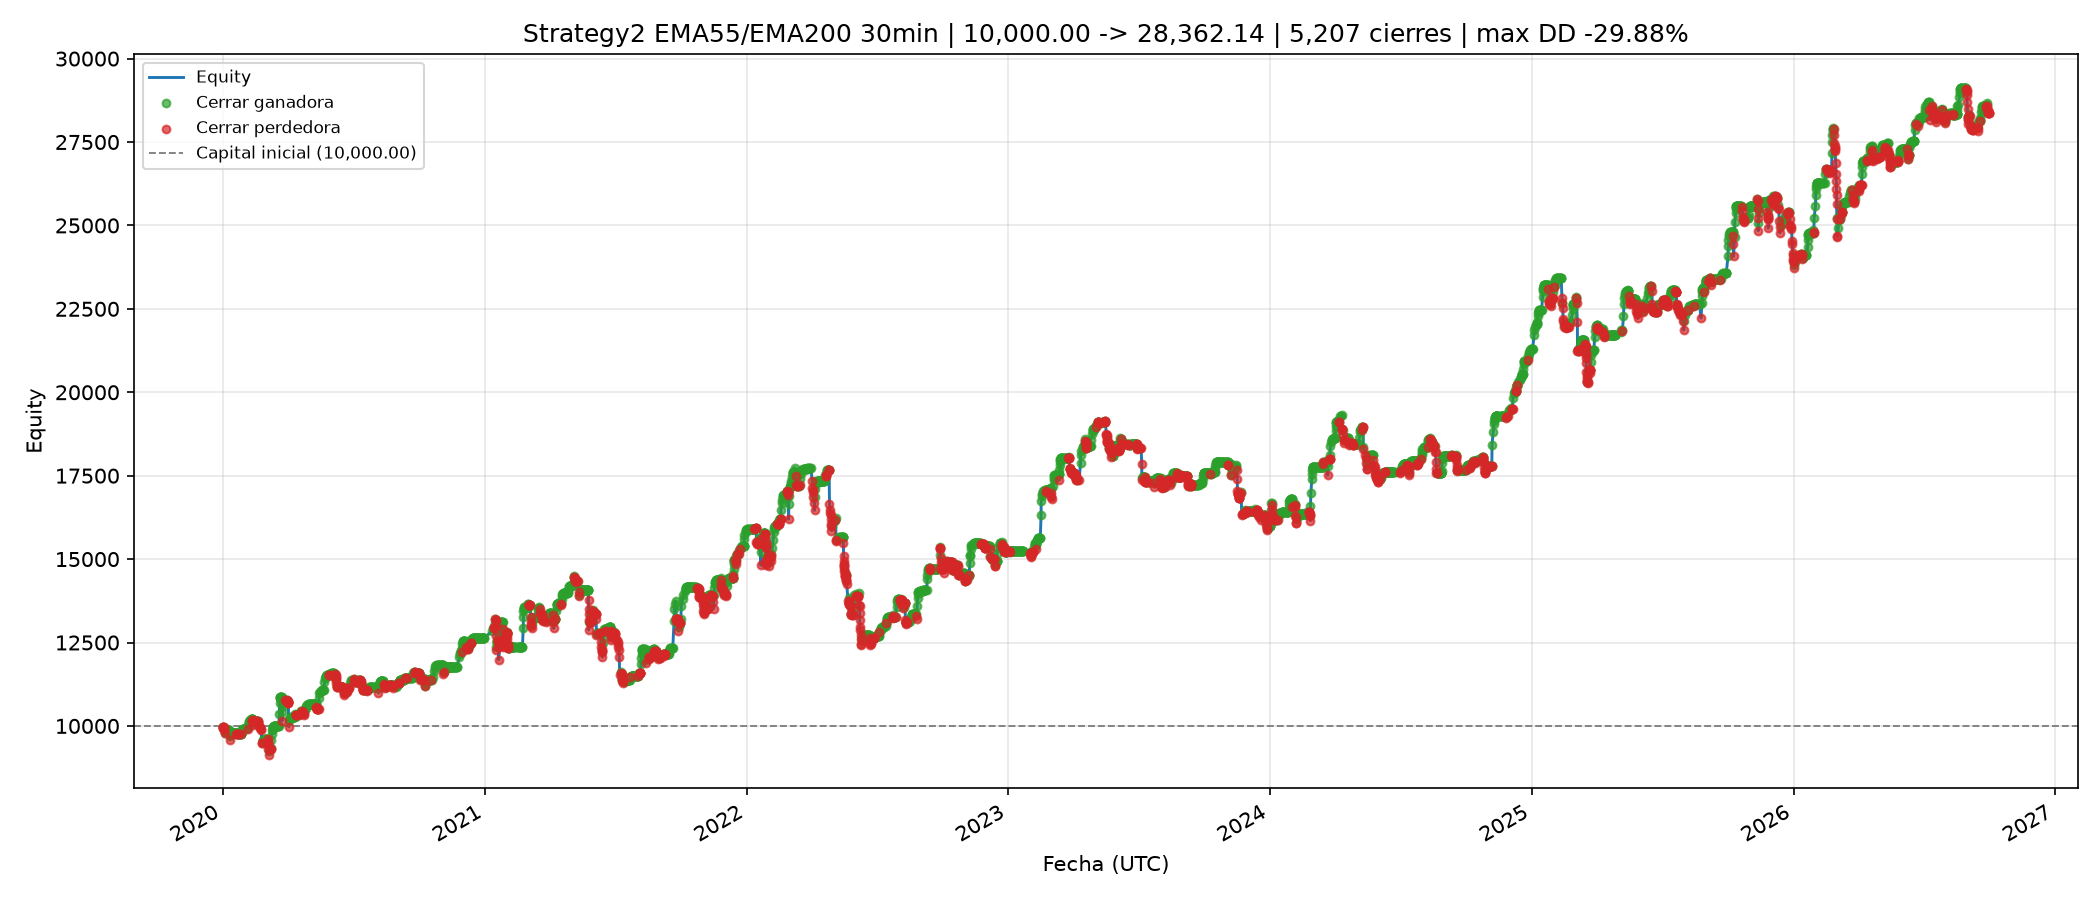
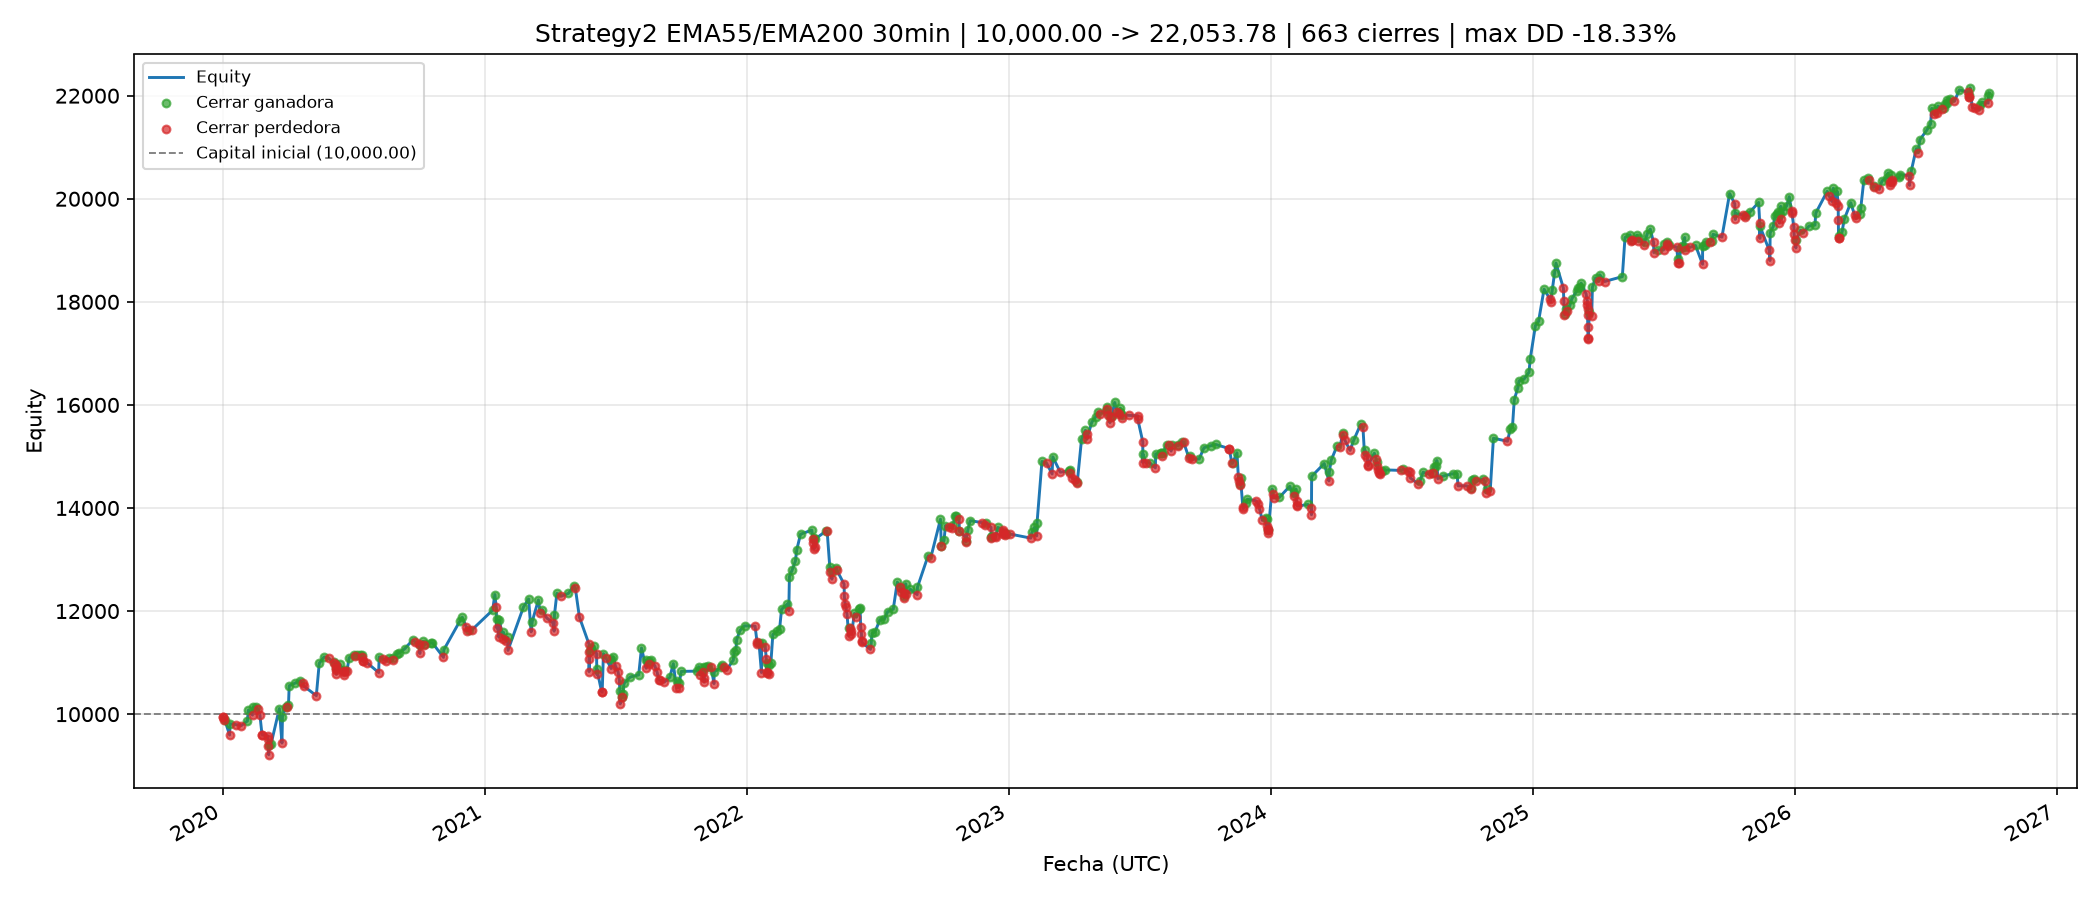
update

diff --git a/backend/services/backtest/bin/legacy/strategy/strategy2.py b/backend/services/backtest/bin/legacy/strategy/strategy2.py
@@ -15,8 +15,12 @@ Reglas:
         ADX deja de subir tras un pico por encima de `key_level`, se
         cierra la posición (total o parcial según `adx_exit_pct`).
         Funciona igual para LONG y SHORT.
+    SALIDA PARCIAL RSI (solo SHORT) -> en el timeframe de la
+        estrategia (30m), cuando el RSI cruza A LA BAJA el nivel
+        `rsi_exit_level` (32) se cierra el % `rsi_exit_pct` del
+        SHORT abierto. No aplica a LONG.
 
-La entrada sigue siendo SOLO el cruce de EMAs. No hay RSI ni ATR.
+La entrada sigue siendo SOLO el cruce de EMAs. No hay ATR.
 
 Convención anti-lookahead:
 
@@ -94,6 +98,13 @@ class Config:
     adx_key_level: float = 23.0
     adx_exit_pct: float = 50.0
 
+    # Salida parcial por RSI en el timeframe de la estrategia (30m).
+    # Solo SHORT: cruce a la baja de `rsi_exit_level`.
+    rsi_exit_enabled: bool = True
+    rsi_len: int = 14
+    rsi_exit_level: float = 32.0
+    rsi_exit_pct: float = 50.0
+
     force_close_at_end: bool = True
 
     timestamp_is_close: bool = False
@@ -144,6 +155,21 @@ class Config:
             if not (0.0 < self.adx_exit_pct <= 100.0):
                 raise ValueError(
                     "adx_exit_pct debe estar entre 0 (excl.) y 100."
+                )
+
+        if self.rsi_exit_enabled:
+
+            if self.rsi_len <= 0:
+                raise ValueError("rsi_len debe ser > 0.")
+
+            if not (0.0 < self.rsi_exit_level < 100.0):
+                raise ValueError(
+                    "rsi_exit_level debe estar entre 0 y 100."
+                )
+
+            if not (0.0 < self.rsi_exit_pct <= 100.0):
+                raise ValueError(
+                    "rsi_exit_pct debe estar entre 0 (excl.) y 100."
                 )
 
         if not self.allow_long and not self.allow_short:
@@ -473,6 +499,51 @@ def ema_closed(
     ).mean()
 
 
+def rsi_vec(
+    close: pd.Series,
+    length: int = 14,
+) -> pd.Series:
+
+    """RSI de Wilder (smoothing alpha = 1/length)."""
+
+    if length <= 0:
+        raise ValueError("RSI length must be > 0")
+
+    delta = close.diff()
+
+    gain = delta.clip(lower=0.0)
+    loss = (-delta).clip(lower=0.0)
+
+    avg_gain = gain.ewm(
+        alpha=1.0 / length,
+        adjust=False,
+    ).mean()
+
+    avg_loss = loss.ewm(
+        alpha=1.0 / length,
+        adjust=False,
+    ).mean()
+
+    zero_loss = avg_loss.to_numpy() == 0.0
+    zero_gain = avg_gain.to_numpy() == 0.0
+
+    safe_loss = np.where(zero_loss, 1.0, avg_loss.to_numpy())
+
+    with np.errstate(invalid="ignore"):
+        rs = avg_gain.to_numpy() / safe_loss
+        rsi = 100.0 - 100.0 / (1.0 + rs)
+
+    rsi = np.where(zero_loss & ~zero_gain, 100.0, rsi)
+    rsi = np.where(zero_loss & zero_gain, 50.0, rsi)
+
+    out = pd.Series(rsi, index=close.index, dtype=float)
+
+    out.iloc[:length] = np.nan
+
+    return out
+
+
+
 def build_features(
     bars: pd.DataFrame,
     cfg: Config,
@@ -675,6 +746,36 @@ def adx_reversal_flags(
     return flags
 
 
+def rsi_exit_flags(
+    rsi: np.ndarray,
+    level: float,
+) -> np.ndarray:
+
+    """
+    Marca la vela donde el RSI cruza A LA BAJA `level`.
+
+    Se usa como take-profit parcial de SHORT: el RSI entra en la
+    zona de sobreventa y se reduce la posición.
+    """
+
+    rsi = np.asarray(rsi, dtype=float)
+
+    flags = np.zeros(len(rsi), dtype=bool)
+
+    if len(rsi) < 2:
+        return flags
+
+    prev = rsi[:-1]
+    cur = rsi[1:]
+
+    with np.errstate(invalid="ignore"):
+
+        flags[1:] = (prev > level) & (cur <= level)
+
+    return flags
+
+
+
 def _source_minutes(data: pd.DataFrame) -> float:
 
     minutes = float(
@@ -747,6 +848,28 @@ def build_5m_adx_exit(
     out[ok] = flags[pos[ok]]
 
     return out
+
+
+def build_rsi_exit(
+    bars: pd.DataFrame,
+    cfg: Config,
+) -> Optional[np.ndarray]:
+
+    """
+    Cruces a la baja del RSI en el timeframe de la estrategia (30m),
+    alineados 1:1 con las velas. Devuelve `None` si está deshabilitado.
+    """
+
+    if not cfg.rsi_exit_enabled or len(bars) == 0:
+        return None
+
+    rsi = rsi_vec(
+        bars["close"],
+        cfg.rsi_len,
+    ).to_numpy(float)
+
+    return rsi_exit_flags(rsi, cfg.rsi_exit_level)
+
 
 
 # ---------------------------------------------------------------------------
@@ -1265,6 +1388,15 @@ def print_report(
         f"{'SHORT' if cfg.allow_short else ''}"
     )
 
+    if cfg.rsi_exit_enabled:
+
+        print(
+            f"RSI exit        : "
+            f"RSI({cfg.rsi_len}) cruza <= {cfg.rsi_exit_level:g} "
+            f"en {cfg.timeframe} -> "
+            f"cierra {cfg.rsi_exit_pct:g}% (solo SHORT)"
+        )
+
     print("=" * 72)
 
 
@@ -1529,6 +1661,7 @@ class Strategy2Backtester:
         config: Config,
         verbose: bool = False,
         adx_exit: Optional[np.ndarray] = None,
+        rsi_exit: Optional[np.ndarray] = None,
     ):
 
         self.data = data
@@ -1539,6 +1672,11 @@ class Strategy2Backtester:
             adx_exit = np.zeros(len(data), dtype=bool)
 
         self.adx_exit = np.asarray(adx_exit, dtype=bool)
+
+        if rsi_exit is None or len(rsi_exit) != len(data):
+            rsi_exit = np.zeros(len(data), dtype=bool)
+
+        self.rsi_exit = np.asarray(rsi_exit, dtype=bool)
 
         self.sig = build_features(data, config)
 
@@ -1556,7 +1694,7 @@ class Strategy2Backtester:
         # Objetivo pendiente de ejecutar: +1 LONG, -1 SHORT.
         self.pending_target: Optional[int] = None
 
-        # Salida pendiente de ejecutar por reversión del ADX: (motivo, %).
+        # Salida pendiente de ejecutar (ADX o RSI): (motivo, %).
         self.pending_exit: Optional[tuple[str, float]] = None
 
         self.trades: list[Trade] = []
@@ -1972,6 +2110,18 @@ class Strategy2Backtester:
             else f"{adx_reason}_{adx_exit_pct:g}%"
         )
 
+        rsi_reason = (
+            f"RSI{cfg.rsi_len}_{cfg.rsi_exit_level:g}_EXIT"
+        )
+
+        rsi_exit_pct = float(cfg.rsi_exit_pct)
+
+        rsi_exit_reason = (
+            rsi_reason
+            if rsi_exit_pct >= 100.0
+            else f"{rsi_reason}_{rsi_exit_pct:g}%"
+        )
+
         started = time.perf_counter()
 
         last_log = -10
@@ -1995,7 +2145,7 @@ class Strategy2Backtester:
 
                 if self.verbose and self.position is not None:
                     print(
-                        f"[ADX] {self.times[i]} | EXIT "
+                        f"[EXIT] {self.times[i]} | EXIT "
                         f"{exit_pct:g}% | {exit_reason}",
                         flush=True,
                     )
@@ -2046,8 +2196,8 @@ class Strategy2Backtester:
                     if current != target:
                         new_target = target
 
-                # Salida por reversión del ADX del timeframe menor:
-                # solo si no hay un cruce contrario que ya revertiría.
+                # Salidas parciales (ADX 5m / RSI 30m): solo si no
+                # hay un cruce contrario que ya revertiría.
                 if (
                     new_target is None
                     and self.position is not None
@@ -2055,6 +2205,19 @@ class Strategy2Backtester:
                 ):
 
                     new_exit = (adx_exit_reason, adx_exit_pct)
+
+                # Salida parcial por RSI en el timeframe de la
+                # estrategia (30m): SOLO cuando la posición es SHORT
+                # y el RSI cruza a la baja el nivel (sobreventa).
+                if (
+                    new_exit is None
+                    and new_target is None
+                    and self.position is not None
+                    and self.position.side == -1
+                    and self.rsi_exit[i]
+                ):
+
+                    new_exit = (rsi_exit_reason, rsi_exit_pct)
 
             if new_target is not None:
                 self.pending_target = new_target
@@ -2226,6 +2389,43 @@ def parse_args():
     )
 
     p.add_argument(
+        "--no-rsi-exit",
+        action="store_true",
+        help=(
+            "Deshabilita la salida parcial por RSI "
+            "(solo SHORT)."
+        ),
+    )
+
+    p.add_argument(
+        "--rsi-len",
+        type=int,
+        default=d.rsi_len,
+        help="Periodo del RSI de salida (default: 14).",
+    )
+
+    p.add_argument(
+        "--rsi-exit-level",
+        type=float,
+        default=d.rsi_exit_level,
+        help=(
+            "Nivel del RSI que dispara la salida parcial del "
+            "SHORT (default: 32)."
+        ),
+    )
+
+    p.add_argument(
+        "--rsi-exit-pct",
+        type=float,
+        default=d.rsi_exit_pct,
+        help=(
+            "Porcentaje del SHORT a cerrar en cada cruce del RSI "
+            "por debajo del nivel (100 = cierre total; "
+            "<100 = salida parcial; default: 50)."
+        ),
+    )
+
+    p.add_argument(
         "--adx-timeframe",
         default=d.adx_timeframe,
         help="Timeframe del ADX de salida (default: 5min).",
@@ -2351,6 +2551,10 @@ def make_config(args) -> Config:
         adx_adxlen=args.adx_adxlen,
         adx_key_level=args.adx_key_level,
         adx_exit_pct=args.adx_exit_pct,
+        rsi_exit_enabled=not args.no_rsi_exit,
+        rsi_len=args.rsi_len,
+        rsi_exit_level=args.rsi_exit_level,
+        rsi_exit_pct=args.rsi_exit_pct,
         force_close_at_end=not args.no_force_close,
         timestamp_is_close=(
             Config().timestamp_is_close
@@ -2442,11 +2646,33 @@ def main():
                 flush=True,
             )
 
+    rsi_exit = build_rsi_exit(data, cfg)
+
+    if cfg.rsi_exit_enabled:
+
+        if rsi_exit is None:
+
+            print(
+                "[RSI] salida por RSI deshabilitada.",
+                flush=True,
+            )
+
+        else:
+
+            print(
+                f"[RSI] RSI({cfg.rsi_len}) {cfg.timeframe} | "
+                f"nivel={cfg.rsi_exit_level:g} | "
+                f"exit={cfg.rsi_exit_pct:g}% SOLO SHORT | "
+                f"cruces={int(rsi_exit.sum()):,}",
+                flush=True,
+            )
+
     engine = Strategy2Backtester(
         data,
         cfg,
         verbose=args.verbose,
         adx_exit=adx_exit,
+        rsi_exit=rsi_exit,
     )
 
     trades, equity = engine.run()
